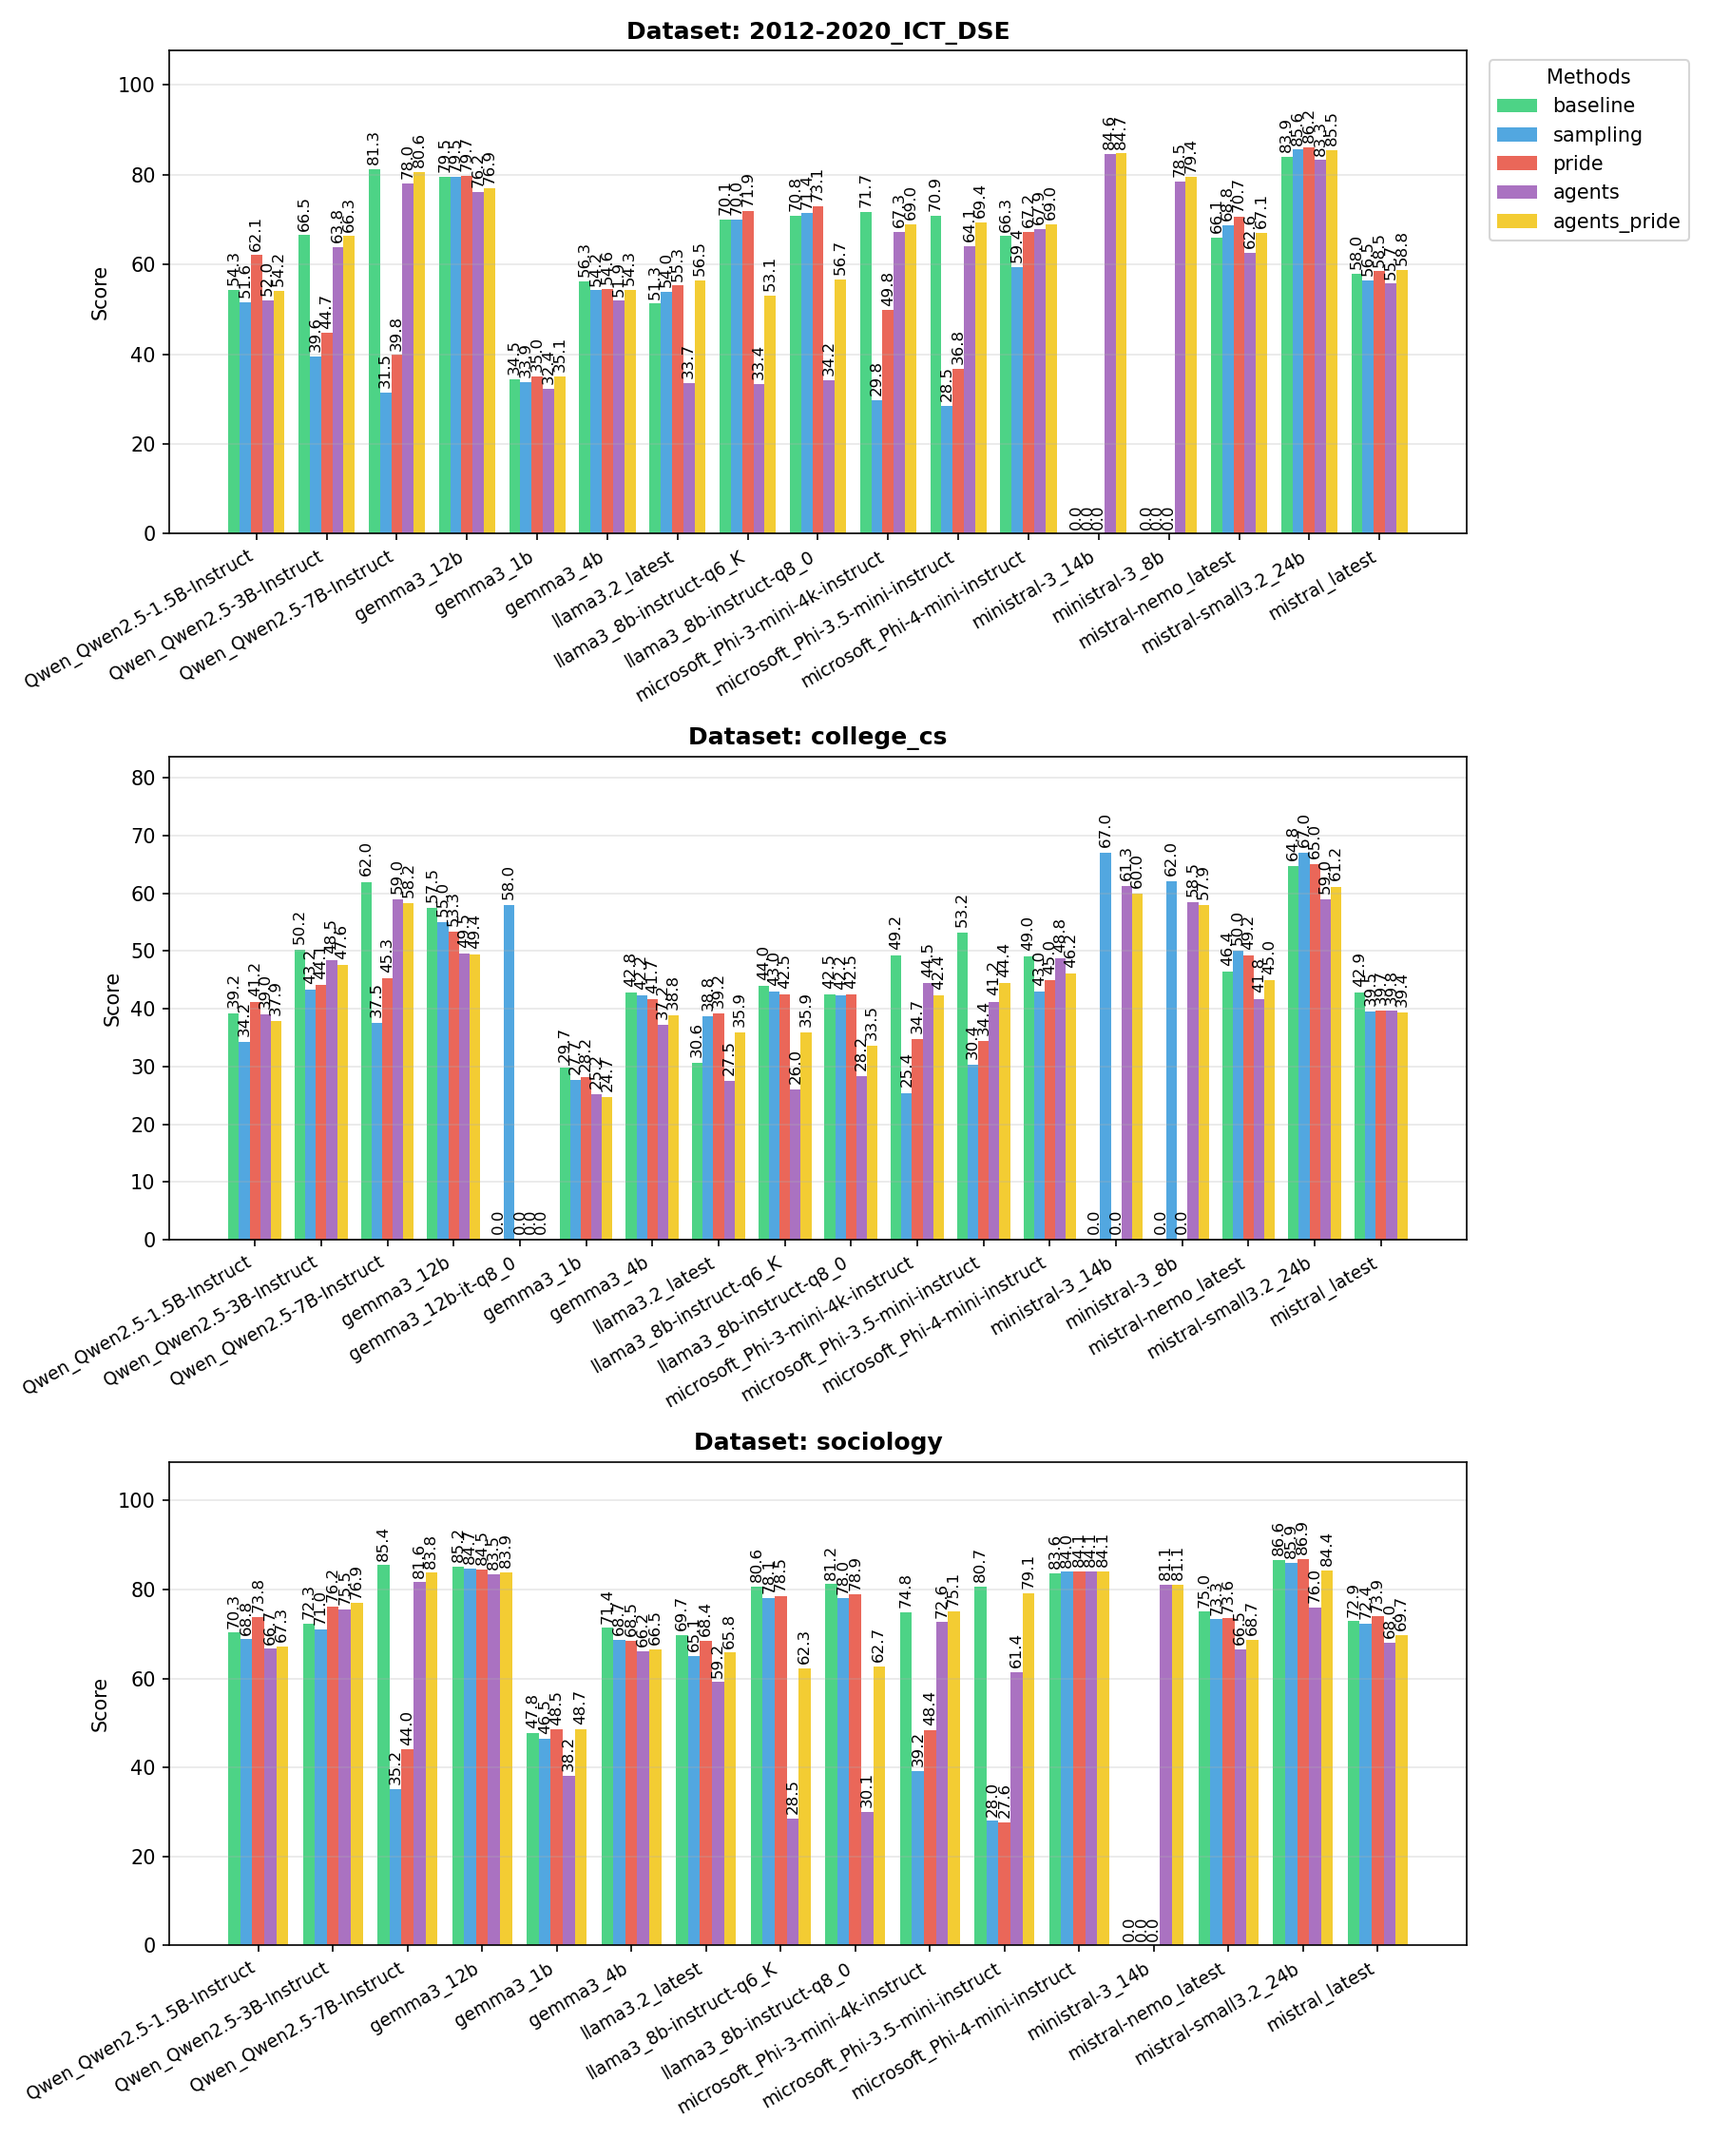
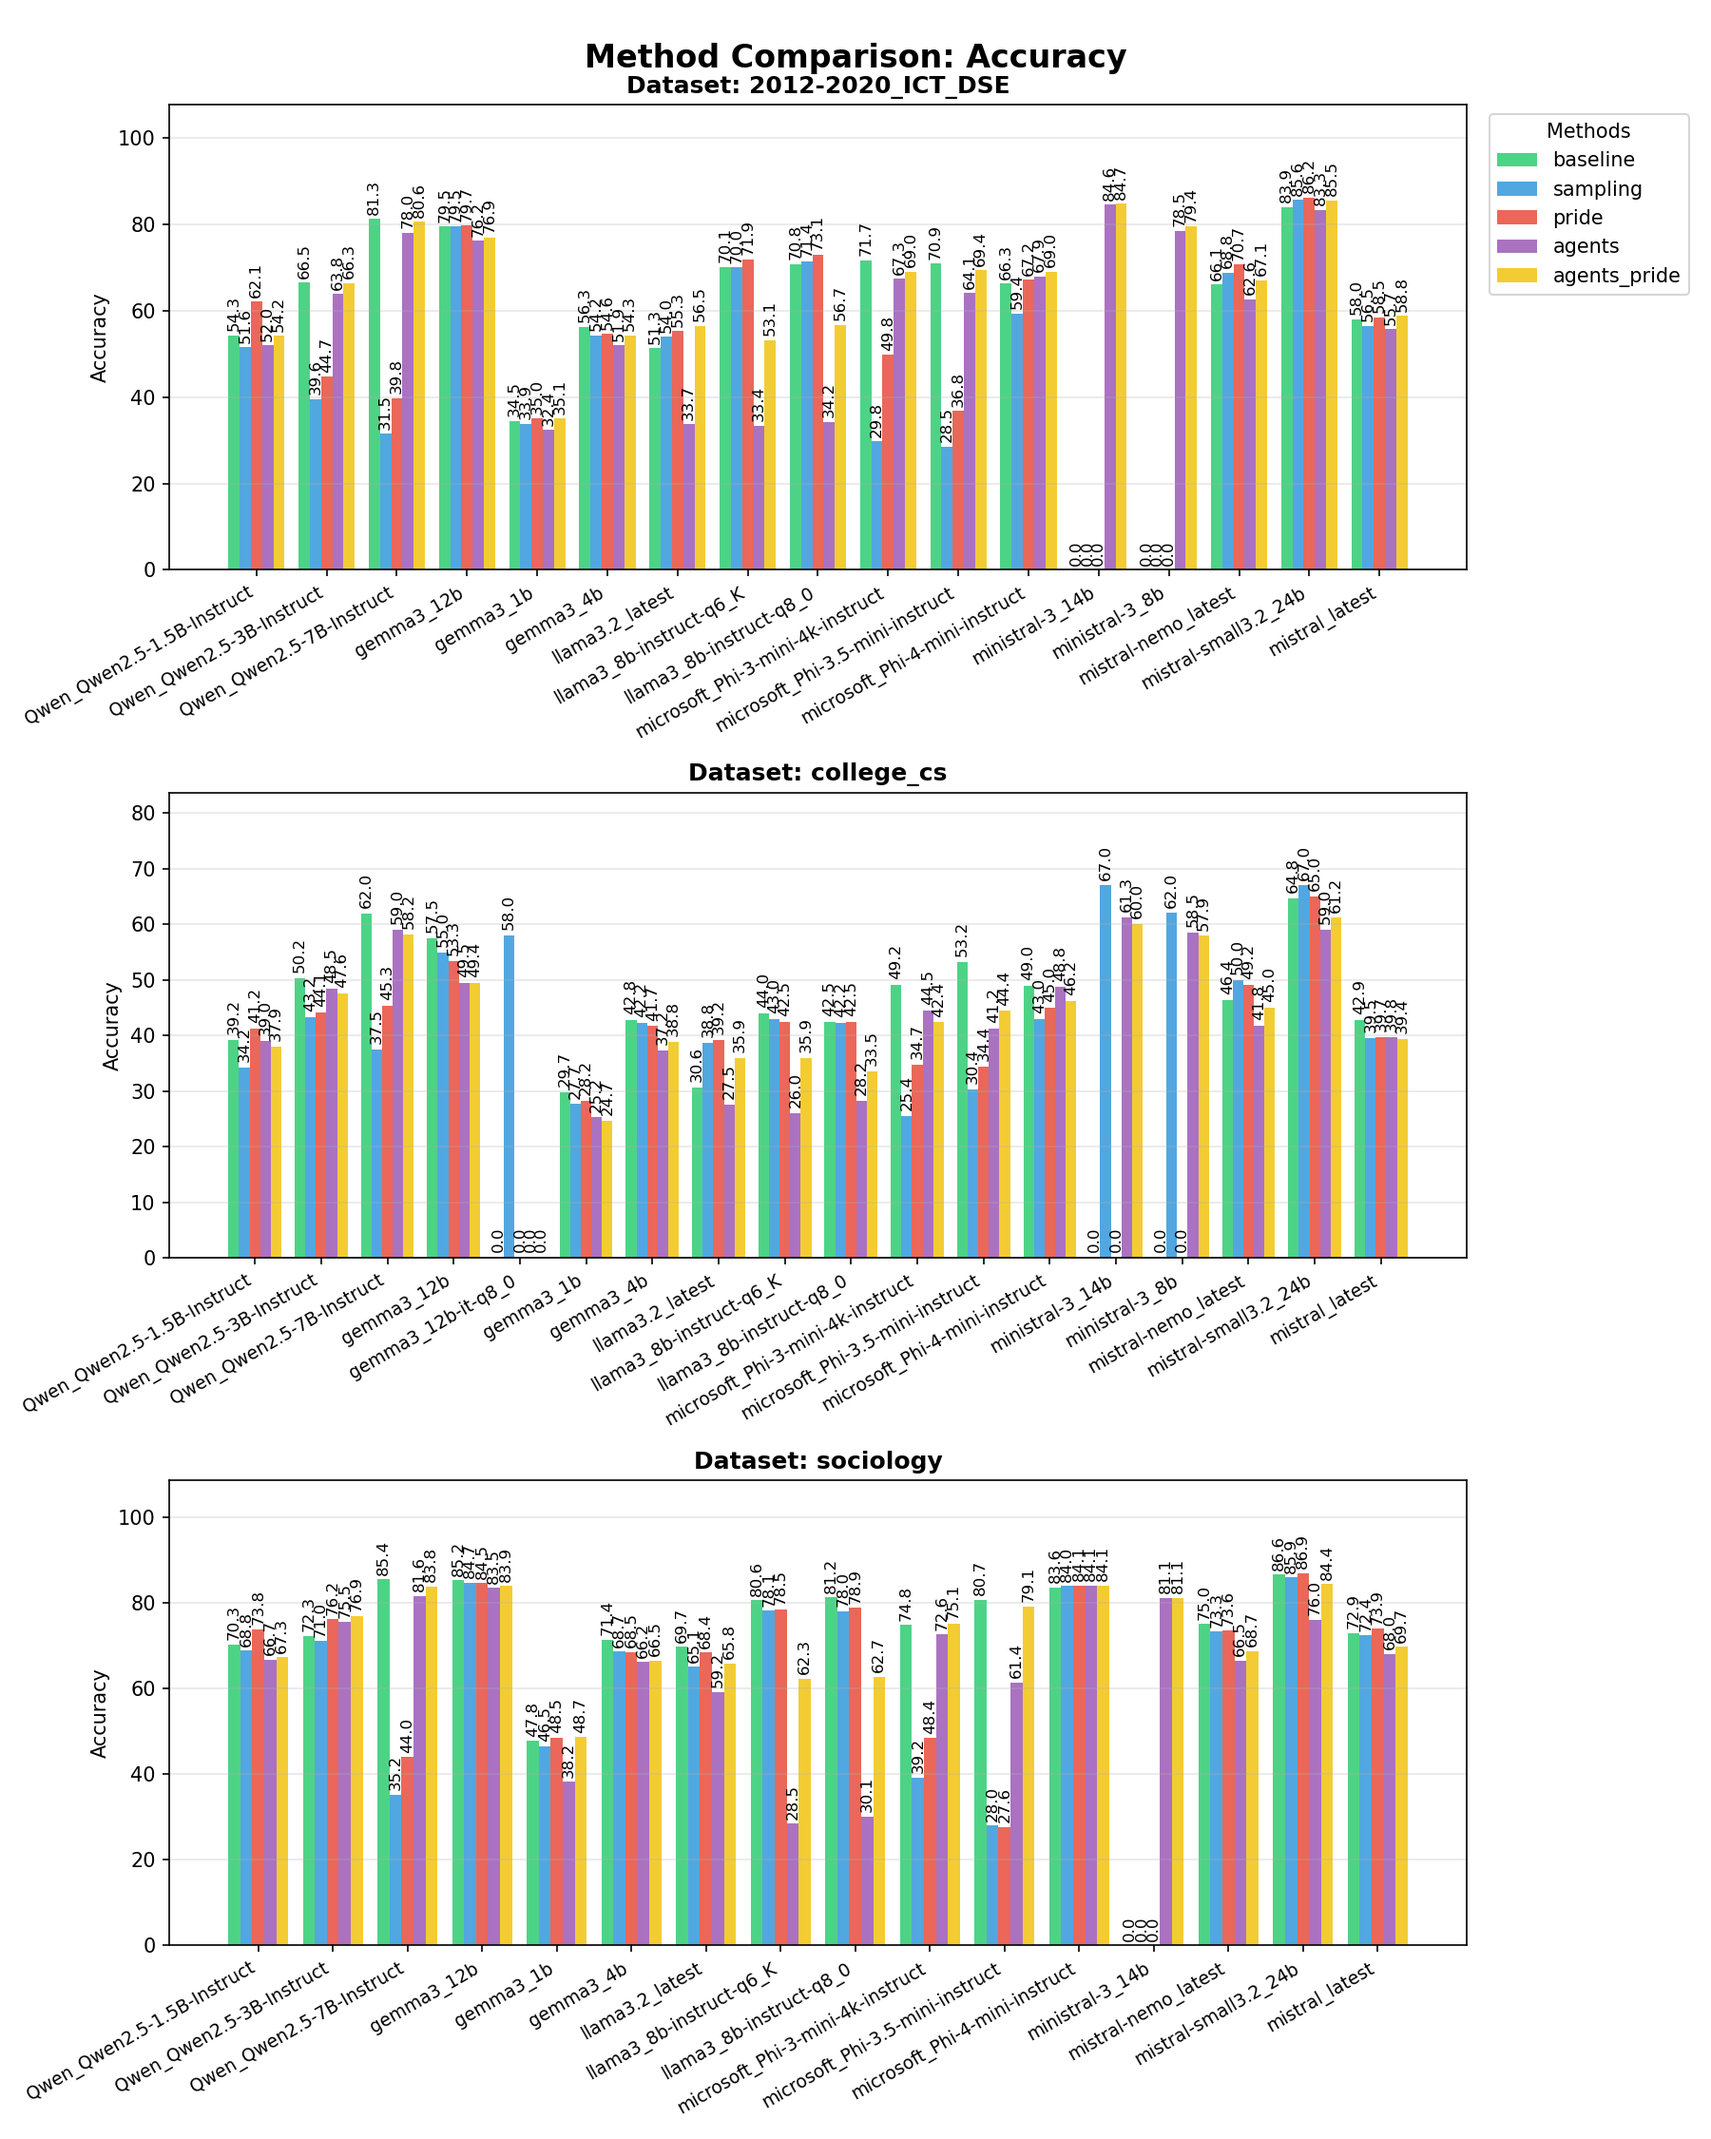
Added titles to the plots

diff --git a/plot_method_summaries.py b/plot_method_summaries.py
@@ -198,7 +198,7 @@ def main():
 
             ax.set_xticks(x)
             ax.set_xticklabels(models, rotation=30, ha="right", fontsize=9)
-            ax.set_ylabel("Score")
+            ax.set_ylabel(metric)
             ax.set_title(f"Dataset: {ds}", fontweight="bold")
             if idx == 0:
                 ax.legend(title="Methods", bbox_to_anchor=(1.01, 1), loc='upper left')
@@ -207,6 +207,7 @@ def main():
             ymax = max((models_dict[m].get(meth, {}).get(metric, 0) for m in models for meth in METHODS), default=10)
             ax.set_ylim(0, ymax * 1.25 if ymax > 0 else 100)
             
+        fig.suptitle(f"Method Comparison: {metric}", fontsize=16, fontweight="bold")
         plt.tight_layout()
         out_path = out_dir / f"Combined_{metric}_methods.png"
         plt.savefig(out_path, dpi=150)
